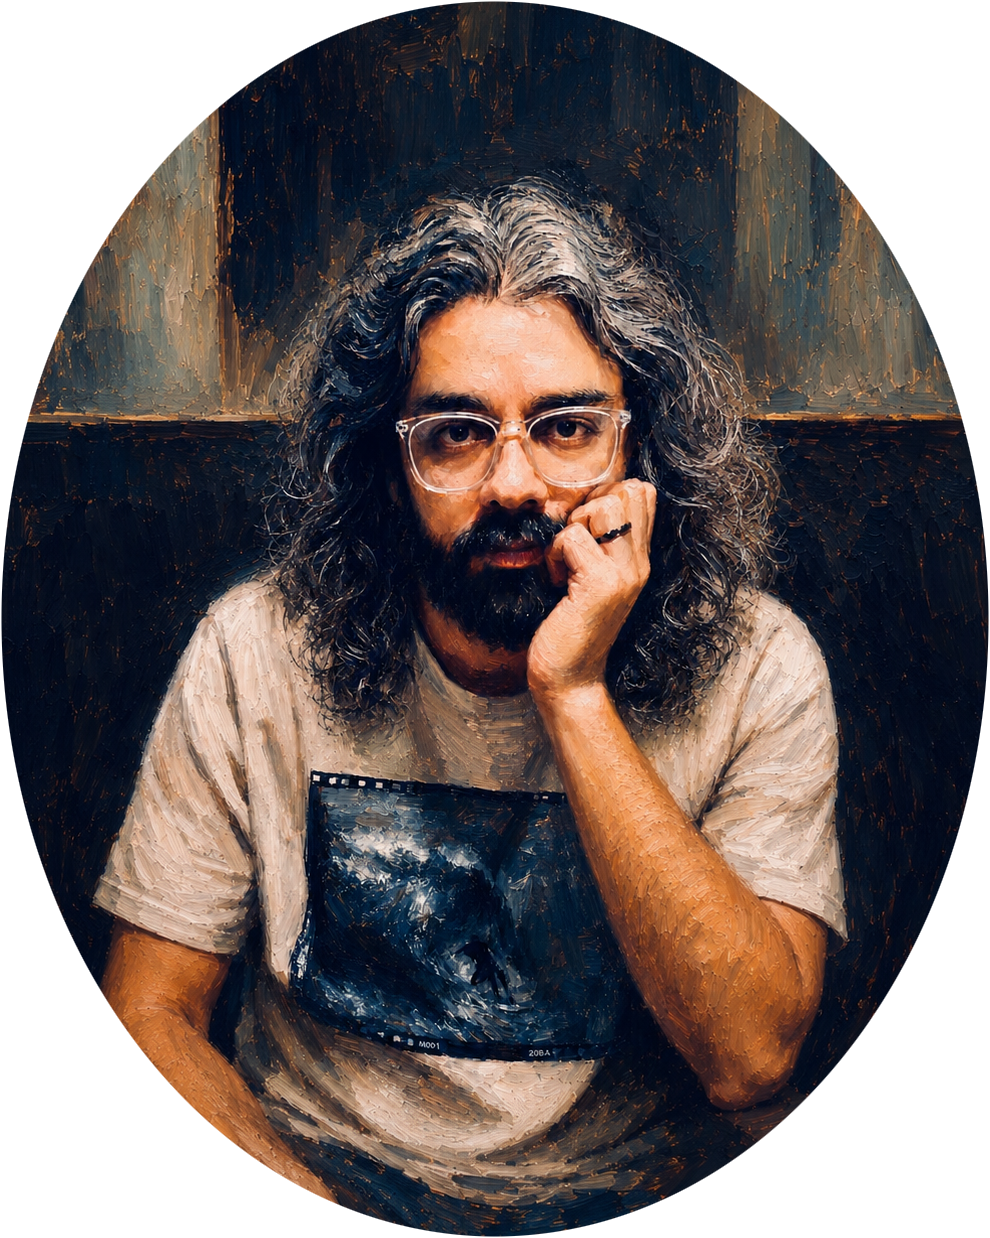
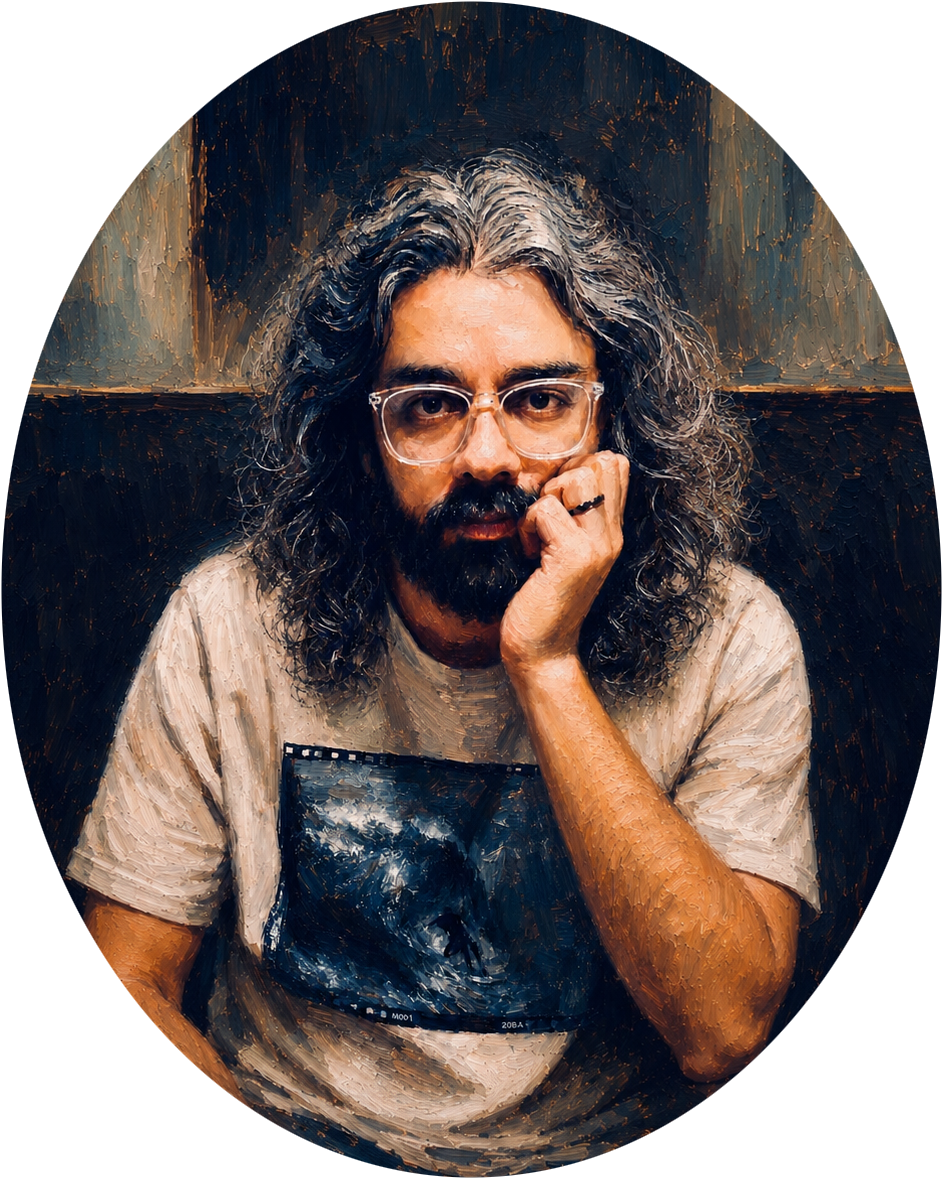
Deploying to gh-pages from @ sephajebi/home@b7718b5d12c024626df01d3e7363508472143d88 🚀

diff --git a/index.html b/index.html
@@ -1,1 +1,1 @@
-<!DOCTYPE html> <html lang="en"> <head> <meta http-equiv="Content-Type" content="text/html; charset=UTF-8"> <meta charset="utf-8"> <meta name="viewport" content="width=device-width, initial-scale=1, shrink-to-fit=no"> <meta http-equiv="X-UA-Compatible" content="IE=edge"> <title>Sepehr Hajebi</title> <meta name="author" content="Sepehr Hajebi"> <meta name="description" content="Sepehr Hajebi's webpage. "> <link rel="stylesheet" href="/assets/css/bootstrap.min.css?a4b3f509e79c54a512b890d73235ef04"> <link rel="stylesheet" href="https://cdn.jsdelivr.net/npm/mdbootstrap@4.20.0/css/mdb.min.css" integrity="sha256-jpjYvU3G3N6nrrBwXJoVEYI/0zw8htfFnhT9ljN3JJw=" crossorigin="anonymous"> <link defer rel="stylesheet" href="https://unpkg.com/bootstrap-table@1.22.1/dist/bootstrap-table.min.css"> <link rel="stylesheet" href="/assets/css/academicons.min.css?f0b7046b84e425c55f3463ac249818f5"> <link rel="stylesheet" type="text/css" href="https://fonts.googleapis.com/css?family=Roboto:300,400,500,700|Roboto+Slab:100,300,400,500,700|Material+Icons"> <link rel="stylesheet" href="/assets/css/jekyll-pygments-themes-github.css?19f3075a2d19613090fe9e16b564e1fe" media="" id="highlight_theme_light"> <link rel="shortcut icon" href="/assets/img/favicon-32x32.png?8b1b11309394f00c68a13b7dc59b7863"> <link rel="stylesheet" href="/assets/css/main.css?d41d8cd98f00b204e9800998ecf8427e"> <link rel="canonical" href="https://sepehrhajebi.com/"> <link rel="stylesheet" href="/assets/css/jekyll-pygments-themes-native.css?e74e74bf055e5729d44a7d031a5ca6a5" media="none" id="highlight_theme_dark"> <script src="/assets/js/theme.js?96d6b3e1c3604aca8b6134c7afdd5db6"></script> <script src="/assets/js/dark_mode.js?9b17307bb950ffa2e34be0227f53558f"></script> </head> <body class="fixed-top-nav "> <header> <nav id="navbar" class="navbar navbar-light navbar-expand-sm fixed-top"> <div class="container"> <button class="navbar-toggler collapsed ml-auto" type="button" data-toggle="collapse" data-target="#navbarNav" aria-controls="navbarNav" aria-expanded="false" aria-label="Toggle navigation"> <span class="sr-only">Toggle navigation</span> <span class="icon-bar top-bar"></span> <span class="icon-bar middle-bar"></span> <span class="icon-bar bottom-bar"></span> </button> <div class="collapse navbar-collapse text-right" id="navbarNav"> <ul class="navbar-nav ml-auto flex-nowrap"> <li class="nav-item active"> <a class="nav-link" href="/">About me<span class="sr-only">(current)</span></a> </li> <li class="nav-item "> <a class="nav-link" href="/publications/">Papers</a> </li> <li class="nav-item "> <a class="nav-link" href="/talks/">Talks</a> </li> <li class="nav-item "> <a class="nav-link" href="/teaching/">Teaching</a> </li> <li class="toggle-container"> <button id="light-toggle" title="Change theme"> <i class="fas fa-moon"></i> <i class="fas fa-sun"></i> </button> </li> </ul> </div> </div> </nav> <progress id="progress" value="0"> <div class="progress-container"> <span class="progress-bar"></span> </div> </progress> </header> <div class="container mt-5"> <div class="post"> <header class="post-header"> <h1 class="post-title"> Sepehr Hajebi </h1> <p class="desc"></p> </header> <article> <div class="profile float-right"> <figure> <picture> <source class="responsive-img-srcset" media="(max-width: 480px)" srcset="/assets/img/sepehr_hajebi_profile-480.webp"></source> <source class="responsive-img-srcset" media="(max-width: 800px)" srcset="/assets/img/sepehr_hajebi_profile-800.webp"></source> <source class="responsive-img-srcset" media="(max-width: 1400px)" srcset="/assets/img/sepehr_hajebi_profile-1400.webp"></source> <img src="/assets/img/sepehr_hajebi_profile.jpg?38b17db5969258384bde0626a1a0be11" class="img-fluid z-depth-1 rounded-circle" width="auto" height="auto" alt="sepehr_hajebi_profile.jpg" onerror="this.onerror=null; $('.responsive-img-srcset').remove();"> </picture> </figure> </div> <div class="clearfix"> <p>I am a Postdoctoral Scholar in the C&amp;O department at the University of Waterloo. In 2024, I was appointed Junior Faculty (Instructor) in the Department of Mathematics at Princeton University, but visa delays prevented me from taking up the position.</p> <p>I received my PhD from the C&amp;O department at the University of Waterloo in 2024. My thesis was <em><a href="https://uwspace.uwaterloo.ca/items/0ff1e564-5de5-48bd-9ffc-58bd5950c99b" rel="external nofollow noopener" target="_blank">Foreshadowing the Grid Theorem for Induced Subgraphs</a></em>. My advisor was <a href="https://sites.google.com/site/sophiespirkl/" rel="external nofollow noopener" target="_blank">Sophie Spirkl</a>.</p> <p>My current research is in combinatorics and graph theory, with a focus on structural graph theory. Broadly, I am also interested in topology and category theory.</p> <p><i class="fas fa-envelope"></i> shajebi at uwaterloo dot ca<br> <a href="https://scholar.google.com/citations?hl=en&amp;authuser=1&amp;user=jHoNmSkAAAAJ" rel="external nofollow noopener" target="_blank"><i class="ai ai-google-scholar"></i> Google Scholar</a><br> <a href="/assets/pdf/sepehr_hajebi_cv.pdf" target="_blank" rel="noopener noreferrer"><i class="fas fa-file-pdf"></i> CV</a> <br> <br> <br> <br></p> <p>“If there is one thing in mathematics that fascinates me more than anything else (and probably always has), it is neither ‘number’ nor ‘size,’ but always form. And among the thousand and one faces that form chooses to manifest itself to us, the one that has fascinated me more than any other and continues to fascinate me is the hidden structure within mathematical things.”</p> <p style="text-align:right; font-style:italic"> — A. Grothendieck, <a href="https://webusers.imj-prg.fr/~leila.schneps/grothendieckcircle/RetSbis.pdf" rel="external nofollow noopener" target="_blank">Récoltes et Semailles</a>, p. 43.</p> </div> </article> </div> </div> <footer class="fixed-bottom"> <div class="container mt-0"> © Copyright 2026 Sepehr Hajebi. </div> </footer> <script src="https://cdn.jsdelivr.net/npm/jquery@3.6.0/dist/jquery.min.js" integrity="sha256-/xUj+3OJU5yExlq6GSYGSHk7tPXikynS7ogEvDej/m4=" crossorigin="anonymous"></script> <script src="/assets/js/bootstrap.bundle.min.js"></script> <script src="https://cdn.jsdelivr.net/npm/mdbootstrap@4.20.0/js/mdb.min.js" integrity="sha256-NdbiivsvWt7VYCt6hYNT3h/th9vSTL4EDWeGs5SN3DA=" crossorigin="anonymous"></script> <script defer src="https://cdn.jsdelivr.net/npm/masonry-layout@4.2.2/dist/masonry.pkgd.min.js" integrity="sha256-Nn1q/fx0H7SNLZMQ5Hw5JLaTRZp0yILA/FRexe19VdI=" crossorigin="anonymous"></script> <script defer src="https://cdn.jsdelivr.net/npm/imagesloaded@4/imagesloaded.pkgd.min.js"></script> <script defer src="/assets/js/masonry.js" type="text/javascript"></script> <script defer src="https://cdn.jsdelivr.net/npm/medium-zoom@1.0.8/dist/medium-zoom.min.js" integrity="sha256-7PhEpEWEW0XXQ0k6kQrPKwuoIomz8R8IYyuU1Qew4P8=" crossorigin="anonymous"></script> <script defer src="/assets/js/zoom.js?7b30caa5023af4af8408a472dc4e1ebb"></script> <script defer src="https://unpkg.com/bootstrap-table@1.22.1/dist/bootstrap-table.min.js"></script> <script src="/assets/js/no_defer.js?d633890033921b33e0ceb13d22340a9c"></script> <script defer src="/assets/js/common.js?acdb9690d7641b2f8d40529018c71a01"></script> <script defer src="/assets/js/copy_code.js?c9d9dd48933de3831b3ee5ec9c209cac" type="text/javascript"></script> <script type="text/javascript">window.MathJax={tex:{tags:"ams"}};</script> <script defer type="text/javascript" id="MathJax-script" src="https://cdn.jsdelivr.net/npm/mathjax@3.2.0/es5/tex-mml-chtml.js"></script> <script defer src="https://polyfill.io/v3/polyfill.min.js?features=es6"></script> <script type="text/javascript">function progressBarSetup(){"max"in document.createElement("progress")?(initializeProgressElement(),$(document).on("scroll",function(){progressBar.attr({value:getCurrentScrollPosition()})}),$(window).on("resize",initializeProgressElement)):(resizeProgressBar(),$(document).on("scroll",resizeProgressBar),$(window).on("resize",resizeProgressBar))}function getCurrentScrollPosition(){return $(window).scrollTop()}function initializeProgressElement(){let e=$("#navbar").outerHeight(!0);$("body").css({"padding-top":e}),$("progress-container").css({"padding-top":e}),progressBar.css({top:e}),progressBar.attr({max:getDistanceToScroll(),value:getCurrentScrollPosition()})}function getDistanceToScroll(){return $(document).height()-$(window).height()}function resizeProgressBar(){progressBar.css({width:getWidthPercentage()+"%"})}function getWidthPercentage(){return getCurrentScrollPosition()/getDistanceToScroll()*100}const progressBar=$("#progress");window.onload=function(){setTimeout(progressBarSetup,50)};</script> </body> </html>
+<!DOCTYPE html> <html lang="en"> <head> <meta http-equiv="Content-Type" content="text/html; charset=UTF-8"> <meta charset="utf-8"> <meta name="viewport" content="width=device-width, initial-scale=1, shrink-to-fit=no"> <meta http-equiv="X-UA-Compatible" content="IE=edge"> <title>Sepehr Hajebi</title> <meta name="author" content="Sepehr Hajebi"> <meta name="description" content="Sepehr Hajebi's webpage. "> <link rel="stylesheet" href="/assets/css/bootstrap.min.css?a4b3f509e79c54a512b890d73235ef04"> <link rel="stylesheet" href="https://cdn.jsdelivr.net/npm/mdbootstrap@4.20.0/css/mdb.min.css" integrity="sha256-jpjYvU3G3N6nrrBwXJoVEYI/0zw8htfFnhT9ljN3JJw=" crossorigin="anonymous"> <link defer rel="stylesheet" href="https://unpkg.com/bootstrap-table@1.22.1/dist/bootstrap-table.min.css"> <link rel="stylesheet" href="/assets/css/academicons.min.css?f0b7046b84e425c55f3463ac249818f5"> <link rel="stylesheet" type="text/css" href="https://fonts.googleapis.com/css?family=Roboto:300,400,500,700|Roboto+Slab:100,300,400,500,700|Material+Icons"> <link rel="stylesheet" href="/assets/css/jekyll-pygments-themes-github.css?19f3075a2d19613090fe9e16b564e1fe" media="" id="highlight_theme_light"> <link rel="shortcut icon" href="/assets/img/favicon-32x32.png?8b1b11309394f00c68a13b7dc59b7863"> <link rel="stylesheet" href="/assets/css/main.css?d41d8cd98f00b204e9800998ecf8427e"> <link rel="canonical" href="https://sepehrhajebi.com/"> <link rel="stylesheet" href="/assets/css/jekyll-pygments-themes-native.css?e74e74bf055e5729d44a7d031a5ca6a5" media="none" id="highlight_theme_dark"> <script src="/assets/js/theme.js?96d6b3e1c3604aca8b6134c7afdd5db6"></script> <script src="/assets/js/dark_mode.js?9b17307bb950ffa2e34be0227f53558f"></script> </head> <body class="fixed-top-nav "> <header> <nav id="navbar" class="navbar navbar-light navbar-expand-sm fixed-top"> <div class="container"> <button class="navbar-toggler collapsed ml-auto" type="button" data-toggle="collapse" data-target="#navbarNav" aria-controls="navbarNav" aria-expanded="false" aria-label="Toggle navigation"> <span class="sr-only">Toggle navigation</span> <span class="icon-bar top-bar"></span> <span class="icon-bar middle-bar"></span> <span class="icon-bar bottom-bar"></span> </button> <div class="collapse navbar-collapse text-right" id="navbarNav"> <ul class="navbar-nav ml-auto flex-nowrap"> <li class="nav-item active"> <a class="nav-link" href="/">About me<span class="sr-only">(current)</span></a> </li> <li class="nav-item "> <a class="nav-link" href="/publications/">Papers</a> </li> <li class="nav-item "> <a class="nav-link" href="/talks/">Talks</a> </li> <li class="nav-item "> <a class="nav-link" href="/teaching/">Teaching</a> </li> <li class="toggle-container"> <button id="light-toggle" title="Change theme"> <i class="fas fa-moon"></i> <i class="fas fa-sun"></i> </button> </li> </ul> </div> </div> </nav> <progress id="progress" value="0"> <div class="progress-container"> <span class="progress-bar"></span> </div> </progress> </header> <div class="container mt-5"> <div class="post"> <header class="post-header"> <h1 class="post-title"> Sepehr Hajebi </h1> <p class="desc"></p> </header> <article> <div class="profile float-right"> <figure> <picture> <source class="responsive-img-srcset" media="(max-width: 480px)" srcset="/assets/img/sepehr_hajebi_profile-480.webp"></source> <source class="responsive-img-srcset" media="(max-width: 800px)" srcset="/assets/img/sepehr_hajebi_profile-800.webp"></source> <source class="responsive-img-srcset" media="(max-width: 1400px)" srcset="/assets/img/sepehr_hajebi_profile-1400.webp"></source> <img src="/assets/img/sepehr_hajebi_profile.jpg?9ae51ac452b2e899a4f23619ccbad75b" class="img-fluid z-depth-1 rounded-circle" width="auto" height="auto" alt="sepehr_hajebi_profile.jpg" onerror="this.onerror=null; $('.responsive-img-srcset').remove();"> </picture> </figure> </div> <div class="clearfix"> <p>I am a Postdoctoral Scholar in the C&amp;O department at the University of Waterloo. In 2024, I was appointed Junior Faculty (Instructor) in the Department of Mathematics at Princeton University, but visa delays prevented me from taking up the position.</p> <p>I received my PhD from the C&amp;O department at the University of Waterloo in 2024. My thesis was <em><a href="https://uwspace.uwaterloo.ca/items/0ff1e564-5de5-48bd-9ffc-58bd5950c99b" rel="external nofollow noopener" target="_blank">Foreshadowing the Grid Theorem for Induced Subgraphs</a></em>. My advisor was <a href="https://sites.google.com/site/sophiespirkl/" rel="external nofollow noopener" target="_blank">Sophie Spirkl</a>.</p> <p>My current research is in combinatorics and graph theory, with a focus on structural graph theory. Broadly, I am also interested in topology and category theory.</p> <p><i class="fas fa-envelope"></i> shajebi at uwaterloo dot ca<br> <a href="https://scholar.google.com/citations?hl=en&amp;authuser=1&amp;user=jHoNmSkAAAAJ" rel="external nofollow noopener" target="_blank"><i class="ai ai-google-scholar"></i> Google Scholar</a><br> <a href="/assets/pdf/sepehr_hajebi_cv.pdf" target="_blank" rel="noopener noreferrer"><i class="fas fa-file-pdf"></i> CV</a> <br> <br> <br> <br></p> <p>“If there is one thing in mathematics that fascinates me more than anything else (and probably always has), it is neither ‘number’ nor ‘size,’ but always form. And among the thousand and one faces that form chooses to manifest itself to us, the one that has fascinated me more than any other and continues to fascinate me is the hidden structure within mathematical things.”</p> <p style="text-align:right; font-style:italic"> — A. Grothendieck, <a href="https://webusers.imj-prg.fr/~leila.schneps/grothendieckcircle/RetSbis.pdf" rel="external nofollow noopener" target="_blank">Récoltes et Semailles</a>, p. 43.</p> </div> </article> </div> </div> <footer class="fixed-bottom"> <div class="container mt-0"> © Copyright 2026 Sepehr Hajebi. </div> </footer> <script src="https://cdn.jsdelivr.net/npm/jquery@3.6.0/dist/jquery.min.js" integrity="sha256-/xUj+3OJU5yExlq6GSYGSHk7tPXikynS7ogEvDej/m4=" crossorigin="anonymous"></script> <script src="/assets/js/bootstrap.bundle.min.js"></script> <script src="https://cdn.jsdelivr.net/npm/mdbootstrap@4.20.0/js/mdb.min.js" integrity="sha256-NdbiivsvWt7VYCt6hYNT3h/th9vSTL4EDWeGs5SN3DA=" crossorigin="anonymous"></script> <script defer src="https://cdn.jsdelivr.net/npm/masonry-layout@4.2.2/dist/masonry.pkgd.min.js" integrity="sha256-Nn1q/fx0H7SNLZMQ5Hw5JLaTRZp0yILA/FRexe19VdI=" crossorigin="anonymous"></script> <script defer src="https://cdn.jsdelivr.net/npm/imagesloaded@4/imagesloaded.pkgd.min.js"></script> <script defer src="/assets/js/masonry.js" type="text/javascript"></script> <script defer src="https://cdn.jsdelivr.net/npm/medium-zoom@1.0.8/dist/medium-zoom.min.js" integrity="sha256-7PhEpEWEW0XXQ0k6kQrPKwuoIomz8R8IYyuU1Qew4P8=" crossorigin="anonymous"></script> <script defer src="/assets/js/zoom.js?7b30caa5023af4af8408a472dc4e1ebb"></script> <script defer src="https://unpkg.com/bootstrap-table@1.22.1/dist/bootstrap-table.min.js"></script> <script src="/assets/js/no_defer.js?d633890033921b33e0ceb13d22340a9c"></script> <script defer src="/assets/js/common.js?acdb9690d7641b2f8d40529018c71a01"></script> <script defer src="/assets/js/copy_code.js?c9d9dd48933de3831b3ee5ec9c209cac" type="text/javascript"></script> <script type="text/javascript">window.MathJax={tex:{tags:"ams"}};</script> <script defer type="text/javascript" id="MathJax-script" src="https://cdn.jsdelivr.net/npm/mathjax@3.2.0/es5/tex-mml-chtml.js"></script> <script defer src="https://polyfill.io/v3/polyfill.min.js?features=es6"></script> <script type="text/javascript">function progressBarSetup(){"max"in document.createElement("progress")?(initializeProgressElement(),$(document).on("scroll",function(){progressBar.attr({value:getCurrentScrollPosition()})}),$(window).on("resize",initializeProgressElement)):(resizeProgressBar(),$(document).on("scroll",resizeProgressBar),$(window).on("resize",resizeProgressBar))}function getCurrentScrollPosition(){return $(window).scrollTop()}function initializeProgressElement(){let e=$("#navbar").outerHeight(!0);$("body").css({"padding-top":e}),$("progress-container").css({"padding-top":e}),progressBar.css({top:e}),progressBar.attr({max:getDistanceToScroll(),value:getCurrentScrollPosition()})}function getDistanceToScroll(){return $(document).height()-$(window).height()}function resizeProgressBar(){progressBar.css({width:getWidthPercentage()+"%"})}function getWidthPercentage(){return getCurrentScrollPosition()/getDistanceToScroll()*100}const progressBar=$("#progress");window.onload=function(){setTimeout(progressBarSetup,50)};</script> </body> </html>